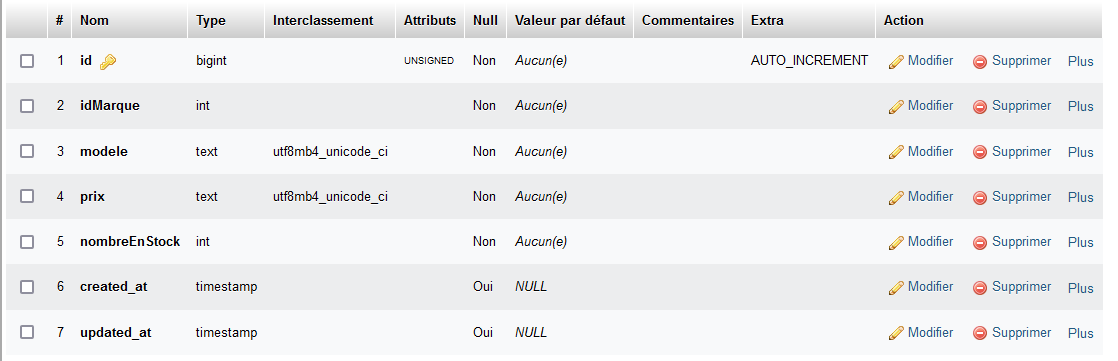
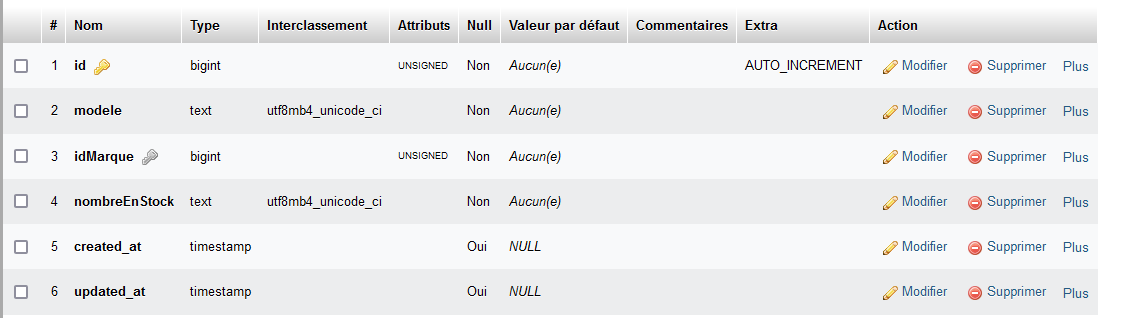
changement de la structure de la table modele et creation de la table listeVoiture

diff --git a/resources/views/detailCar.blade.php b/resources/views/detailCar.blade.php
@@ -19,12 +19,6 @@
                 </div>
             </td>
             <td>
-                <div class="form-group">
-                    <label>Prix : </label>
-                    <input type="text" class="form-control" name="prix">
-                </div>
-            </td>
-            <td>
               <br>
                 <button type="submit" class="btn btn-outline-primary" name="idMarque" value="@foreach($cars as $car)
                 {{$car->id}}
@@ -60,7 +54,6 @@
     <tr>
       <th scope="col">id</th>
       <th scope="col">Modele</th>
-      <th scope="col">Prix</th>
       <th scope="col">Nombre en stock</th>
       <th>Ajouter un en stock</th>
       <th>Supprimer un en stock</th>
@@ -73,7 +66,6 @@
     <tr>
       <th scope="row">{{$modele->id}}</th>
       <td>{{$modele->modele}}</td>
-      <td>{{$modele->prix}} €</td>
       <td>{{$modele->nombreEnStock}}</td>
       <td>
         <form action="/incrementerModele" method="POST"> @csrf<button type="submit" class="btn btn-outline-primary"name="id" value="{{$modele->id}}">+</button></form>

diff --git a/database/migrations/2023_10_11_081944_liste_voiture.php b/database/migrations/2023_10_11_081944_liste_voiture.php
@@ -1,0 +1,39 @@
+<?php
+
+use Illuminate\Database\Migrations\Migration;
+use Illuminate\Database\Schema\Blueprint;
+use Illuminate\Support\Facades\Schema;
+
+class ListeVoiture extends Migration
+{
+    /**
+     * Run the migrations.
+     *
+     * @return void
+     */
+    public function up()
+    {
+        Schema::create('listVoiture', function (Blueprint $table) {
+            $table->id();
+            $table->unsignedBigInteger('id_Modele');
+            $table->date('date'); 
+            $table->unsignedBigInteger('kilometre');
+            $table->integer('puissances');
+            $table->text('energie');
+            $table->integer('prix');
+            $table->timestamps();
+
+            $table->foreign('id_Modele')->references('id')->on('modeles');
+        });
+    }
+
+    /**
+     * Reverse the migrations.
+     *
+     * @return void
+     */
+    public function down()
+    {
+        Schema::dropIfExists('listVoiture');
+    }
+}

diff --git a/app/Http/Controllers/modeleController.php b/app/Http/Controllers/modeleController.php
@@ -21,13 +21,11 @@ class modeleController extends Controller
     }
 
     public function add(){
-        if (!empty($_POST['modele']) && !empty($_POST['prix'])){
+        if (!empty($_POST['modele'])){
             $nomModele = request('modele');
-            $prix = request('prix');
             $idMarque = request('idMarque');
             $modele = new Modele();
             $modele->modele = $nomModele;
-            $modele->prix = $prix;
             $modele->idMarque = $idMarque;
             $modele->nombreEnStock = 0;
             $modele->save();
@@ -83,7 +81,6 @@ class modeleController extends Controller
         $nom = request('nom');
         $modele = Modele::find($idModele);
         $modele->modele = $nom;
-        $modele->prix = $modele->prix; 
         $modele->save();
         $idMarque = $modele->idMarque;
         $car = Car::where('id', '=', $idMarque)->get();

diff --git a/database/migrations/2023_10_06_072740_modeles.php b/database/migrations/2023_10_06_072740_modeles.php
@@ -15,12 +15,14 @@ class Modeles extends Migration
     {
         Schema::create('modeles', function (Blueprint $table) {
             $table->id();
-            $table->integer('idModele');
             $table->text('modele');
-            $table->text('prix');
+            $table->unsignedBigInteger('idMarque');
+            $table->text('nombreEnStock');
             $table->timestamps();
+
+            $table->foreign('idMarque')->references('id')->on('cars');
         });
-             }
+    }
 
     /**
      * Reverse the migrations.

diff --git a/database/migrations/2023_10_05_130603_create_cars_table.php b/database/migrations/2023_10_05_130603_create_cars_table.php
@@ -18,7 +18,6 @@ public function up()
         Schema::create('cars', function (Blueprint $table) {
             $table->id();
             $table->string('marque');
-            $table->integer('prix');
             $table->timestamps();
         });
 }
